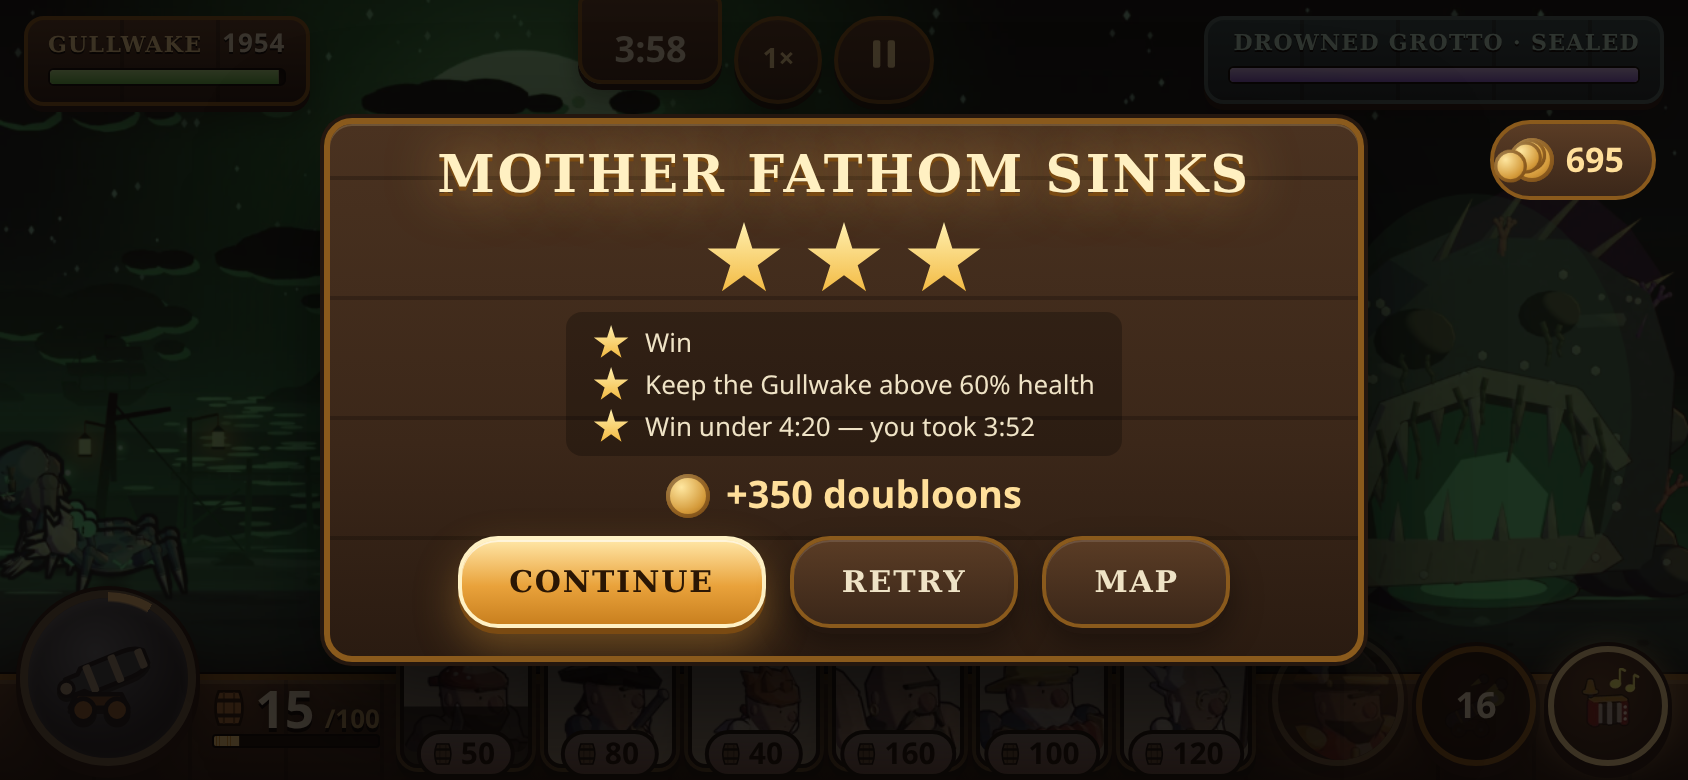
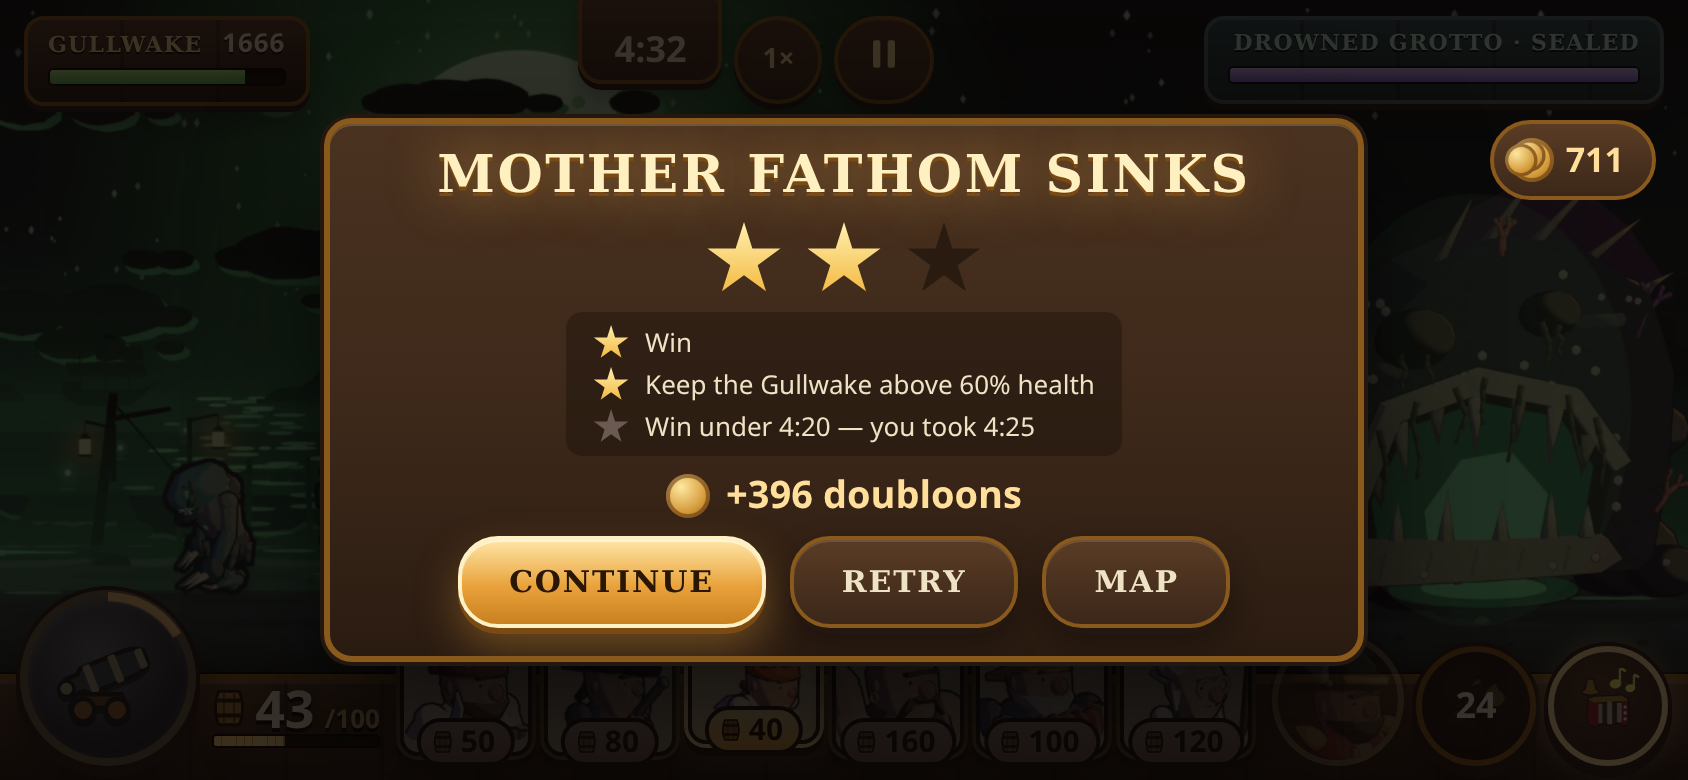
Review 4 fixes: darker Grotto, gentler night grade, chart labels, HUD clipping, settings controls

diff --git a/src/ui/style.css b/src/ui/style.css
@@ -493,3 +493,30 @@ textarea { background: #f6ecd2; color: #2a1a10; border: 2px solid var(--wood-3);
 .pin.locked .lbl > span { gap: 7px !important; }
 .title-s { white-space: nowrap; }
 @media (max-width: 760px) { .pin.locked .lbl { font-size: 8px; padding: 0 5px; letter-spacing: 0; } .pin.locked .lbl .icon { display: none !important; } .pin .lbl { font-size: 10px; } }
+
+/* ---- fixes from review 4 */
+.screen:not(.hud):not(.loading) { background: radial-gradient(90% 80% at 50% 0%, #2c2018, #130d0a 75%); }
+.callout.warn { top: auto; bottom: calc(var(--sab) + 112px); transform: translateX(-50%); animation-name: warnIn; }
+@keyframes warnIn { 0% { opacity: 0; transform: translateX(-50%) translateY(10px); } 15% { opacity: 1; transform: translateX(-50%); } 80% { opacity: 1; } 100% { opacity: 0; transform: translateX(-50%); } }
+.pin.locked .lbl { line-height: 1.5; padding: 0 7px; font-size: 9.5px; background: rgba(28,18,16,.62); }
+.pin.locked .lbl .icon { display: none !important; }
+.pin.locked .lbl > span { display: inline !important; }
+.cards { margin-bottom: 11px; }
+.ucard .nm { font-size: 8px; }
+.bgimg::after { background: linear-gradient(90deg, rgba(12,8,10,.8), rgba(12,8,10,.35) 30%, rgba(12,8,10,0) 48%); }
+.bgimg { background-position: center 22%; }
+.card { background: linear-gradient(180deg, var(--wood-2), var(--wood) 55%, var(--wood-3)); }
+.card h3 { white-space: normal; font-size: 13.5px; line-height: 1.1; }
+.announce b { font-family: var(--display); letter-spacing: .06em; text-transform: uppercase; color: var(--brass-2); font-weight: 700; }
+.announce { background: linear-gradient(180deg, #4a3220, var(--wood) 60%, #2a1b11); }
+.panel { background: linear-gradient(180deg, #4a3220, var(--wood) 60%, #2a1b11); }
+.setting { border-bottom-color: rgba(0,0,0,.35); }
+input[type=range] { -webkit-appearance: none; appearance: none; height: 10px; border-radius: 3px; background: #130c08; border: 2px solid var(--brass-dk); }
+input[type=range]::-webkit-slider-thumb { -webkit-appearance: none; width: 26px; height: 26px; border-radius: 50%; background: radial-gradient(circle at 38% 32%, #ffe6a6, var(--brass) 60%, #a8641a); border: 2px solid var(--wood-3); }
+input[type=range]::-moz-range-thumb { width: 22px; height: 22px; border-radius: 50%; background: var(--brass); border: 2px solid var(--wood-3); }
+.toggle::after { background: radial-gradient(circle at 38% 32%, #ffe6a6, var(--brass) 60%, #a8641a); border: 2px solid var(--wood-3); top: 1px; left: 1px; }
+.toggle.on { background: #5f8a3c; }
+.toast { top: auto; bottom: calc(var(--sab) + 16px); }
+.node .st i { color: #7a6a58; }
+.node .st i.on { color: #ffd05a; }
+@media (max-width: 760px) { .ucard { height: 74px; } .pin.locked .lbl { font-size: 8px; padding: 0 4px; } }

diff --git a/src/render/renderer.js b/src/render/renderer.js
@@ -92,7 +92,7 @@ export function createRenderer(canvas, hooks) {
           const t = e.e; if (!onScreen(t.x)) break;
           if (e.kind === "burn") { if (Math.random() < 0.15) part(t.x + (Math.random() - 0.5) * 16, gy - 30, 0, -40, 0.6, 3, EMBER, 1, -60); break; }
           const enemy = t.side === -1;
-          if (R.quality === 2 || e.amt >= 25) num(t.x, gy - (Math.min(170, t.s.size * 4.6) + 26), Math.max(1, Math.round(e.amt)) + "", enemy ? "#ffd27a" : "#ff6a5a", e.amt >= 60, t.uid, e.amt);
+          if (R.quality === 2 || e.amt >= 25) num(t.x, gy - (Math.min(170, t.s.size * 4.6) + 26), Math.max(1, Math.round(e.amt)) + "", enemy ? "#fff2b8" : "#ff7a6a", e.amt >= 60, t.uid, e.amt);
           burst(t.x - t.side * 6, gy - t.s.size * 2.8, e.amt > 40 ? 10 : 5, enemy ? ICHOR : BLOOD_W, 150, 3.2, 0);
           if (e.kind !== "fire") spark(t.x + t.side * t.s.size * 0.7, gy - t.s.size * (2.2 + Math.random()), e.amt >= 40 ? 26 : 17);
           if (enemy && Math.random() < 0.6) burst(t.x, gy - t.s.size * 2.2, 3, GLOWE, 120, 2, 1, 200, 0.5);
@@ -460,7 +460,7 @@ export function createRenderer(canvas, hooks) {
     // ambient embers drifting up (the Ashen Marches feel)
     if (R.quality > 1 && Math.random() < 0.25) part(R.camX + Math.random() * R.W, TH.ambientGlow === false ? Math.random() * H * 0.7 : H + 4, TH.ambientGlow === false ? 20 + Math.random() * 25 : (Math.random() - 0.5) * 20, TH.ambientGlow === false ? 4 - Math.random() * 8 : -30 - Math.random() * 30, 6, 2, TH.ambient || "#ff9a40", TH.ambientGlow === false ? 3 : 1, -2);
     // damage numbers
-    g.textAlign = "center"; g.lineWidth = 3; g.strokeStyle = "rgba(20,10,10,.85)";
+    g.textAlign = "center"; g.lineWidth = 4.5; g.lineJoin = "round"; g.strokeStyle = "rgba(20,10,10,.95)";
     for (const n of R.nums) {
       if (n.life <= 0) continue; n.life -= dt; n.y -= 34 * dt;
       const a = Math.min(1, n.life / 0.35), sx = n.x - R.camX, pop = n.life > 0.75 ? 1 + (n.life - 0.75) * 2 : 1;

diff --git a/src/main.js b/src/main.js
@@ -151,7 +151,7 @@ async function worldMap() {
   });
   const ann = D.seen.regionCleared === "new" ? h("div", { class: "announce", role: "status" }, h("b", {}, W.regionCleared.title),
     W.regionCleared.text,
-    h("div", { style: "margin-top:10px" }, h("button", { class: "btn", onclick: tap(() => ann.remove()) }, "Got it"))) : null;
+    h("div", { style: "margin-top:10px" }, h("button", { class: "btn primary", onclick: tap(() => ann.remove()) }, "Aye"))) : null;
   if (ann) { D.seen.regionCleared = "shown"; persist(); }
   show(h("div", { class: "screen" }, ann,
     topbar(W.mapTitle, titleScreen, [h("button", { class: "btn", onclick: tap(() => armoury(worldMap)) }, icon(I.hammer), W.armoury.title)]),

diff --git a/art/blender/bg/castles.py b/art/blender/bg/castles.py
@@ -13,6 +13,8 @@ class _SceneFig:      # forts are painted with the figures' sunset lighting (kit
 
 
 _SF = _SceneFig()
+# the Grotto is the darkest large shape on screen so monsters (mid-teal) stand clear of it (review 4)
+GR = (0.17, 0.22, 0.25); GR_D = (0.10, 0.14, 0.17); GR_L = (0.26, 0.32, 0.33)
 
 
 def toon(color, name=None, glow=0.0, rim=0.25):

diff --git a/docs/review/review-4.md b/docs/review/review-4.md
@@ -1,0 +1,20 @@
+# Review 4: fresh reviewer, old vs the full region roll-out (2026-11-17)
+
+Verdict: "The menus, win panels and crew now look authored, but teal-on-teal monsters, the boss, the map labels, the clipped HUD and the stock settings controls still make it read as a strong work in progress, not a finished game."
+
+| # | Finding | Status |
+|---|---|---|
+| 1 | Boss fight is "green soup"; crew turn olive; warning banner covers Mother Fathom's head | Fixed: much lighter night grade so crew stay warm; Grotto darkened so she stands clear of it; warnings moved to just above the rail. The warning now briefly covers the fighters' legs instead |
+| 2 | Monsters are mid-teal and merge with the Grotto; fights pile up at its mouth | Partly fixed: the Grotto is now the darkest large shape. Monsters are still evenly lit rather than "dark with an orange edge"; pile-ups at the mouth are a gameplay matter, open |
+| 3 | Sea chart: locked labels are grey slabs with misaligned lock icons; navy page | Fixed: one-line tags without the icon; dark wood backdrop on every menu |
+| 4 | HUD: cost pills cut off at the bottom; "BLACKPOWDER" clips; cooldown band looks like a glitch; cooldown number over the power icon | Partly fixed: cards raised, name smaller. Cooldown band and number unchanged |
+| 5 | Title: scrim and buttons sit on the crew; moon cropped; empty sand | Partly fixed: narrower scrim, art shifted down. The crew still stand behind the logo block; needs the scene re-composed |
+| 6 | Quartermaster: "CAPTAIN ROOK ..." cut; third card sliced; seams through text | Fixed: name wraps, seams removed from cards. A card can still be cut by the scroll edge |
+| 7 | Region-cleared notice: seam through text, wrong title style, weak button | Fixed |
+| 8 | Settings: stock sliders and toggles; toast lands on the header | Fixed: brass controls; messages appear at the bottom |
+| 9 | Floating numbers pale and overlapping | Partly fixed: heavier outline and brighter fill. Dense hits still stack |
+| 10 | Flying coins cover the total; cards show under the win panel | Open |
+| 11 | Stage select: dark stars; enemy chips are dots, not portraits | Partly fixed: lighter empty stars. No monster portraits yet |
+| – | Old purple Inkspitter separated better from the Grotto; Grotto lost its eyes | Open: owner's call on the Grotto eyes |
+| – | iPhone SE: chart labels collide; cards cover feet | Fixed: smaller labels, shorter cards at small sizes |
+| – | Weakest character: Mother Fathom (no readable face, low contrast). Runner-up: Anchorman card portrait | Open: she reads better against the dark Grotto now, but her face is still side-on and small |

diff --git a/docs/scenery-notes.md b/docs/scenery-notes.md
@@ -57,7 +57,7 @@ pack_scenery.py writes every file atomically (temp file + os.replace; atlas imag
 <!-- sizes -->
 | file | size |
 |---|---|
-| castles.webp | 210.9 KB |
+| castles.webp | 207.0 KB |
 | castles.json | 0.7 KB |
 | fx.webp | 199.1 KB |
 | fx.json | 1.2 KB |
@@ -73,5 +73,5 @@ pack_scenery.py writes every file atomically (temp file + os.replace; atlas imag
 | bg/r1n_near.webp | 63.3 KB |
 | bg/r1n_sky.webp | 20.9 KB |
 | bg/manifest.json | 0.4 KB |
-| **total** | **1003.2 KB** |
+| **total** | **999.3 KB** |
 <!-- /sizes -->
